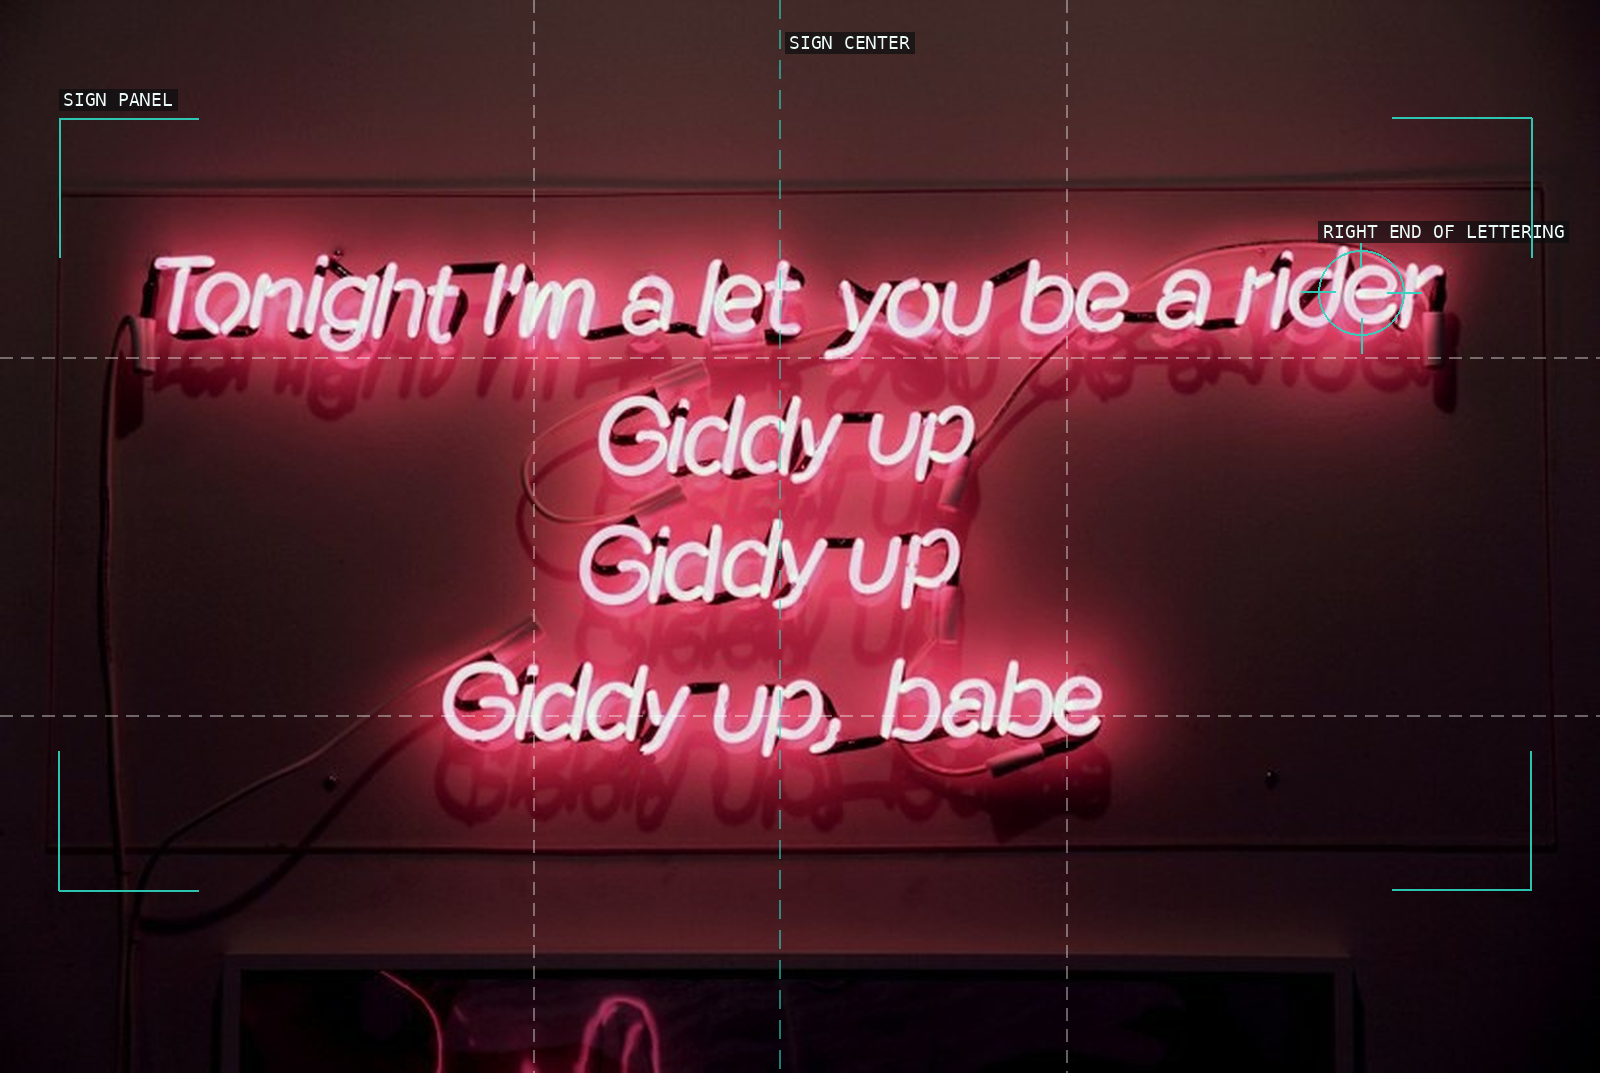
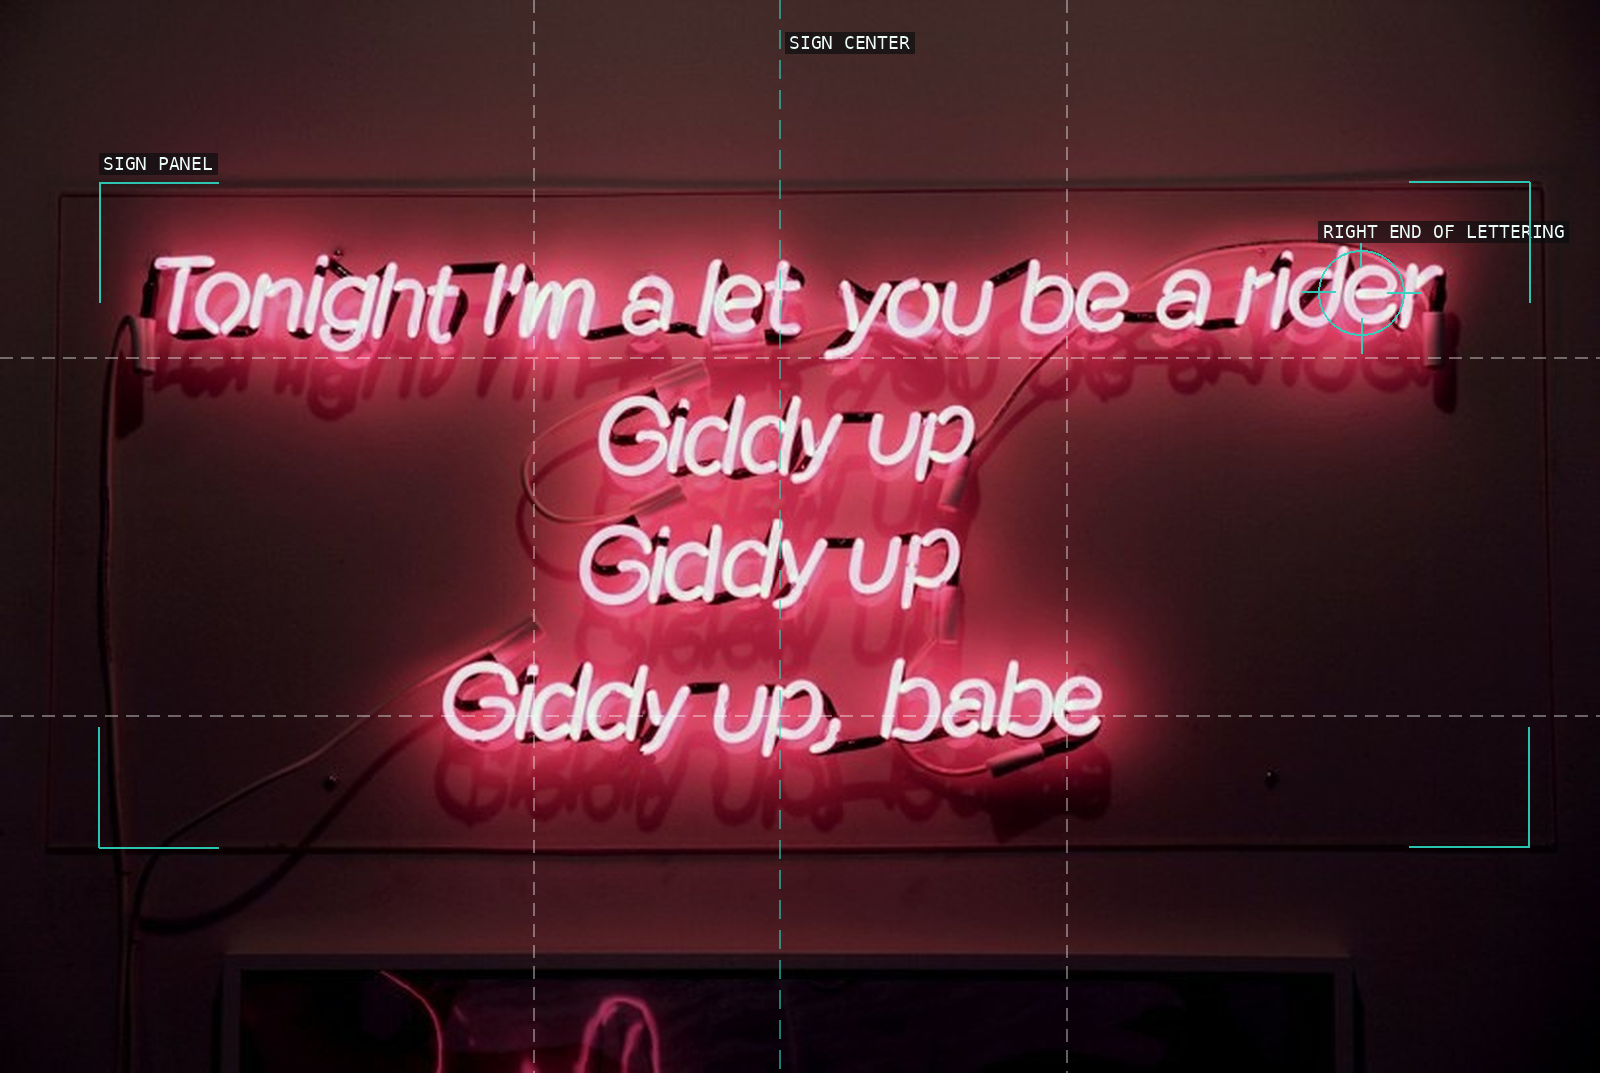
resolve critique: petra-collins

Changed region(s): [[0.0312, 0.0615, 0.1562, 0.1845], [0.9375, 0.7689, 0.9688, 0.7996]]

diff --git a/content/petra-collins/proofs/index.html b/content/petra-collins/proofs/index.html
@@ -7,29 +7,68 @@
 <style>
   :root { color-scheme: dark; }
   body { background:#0a0e0f; color:#e6edf0; font-family:"JetBrains Mono",ui-monospace,monospace; margin:0; padding:2rem; }
-  h1 { font-size:1rem; font-weight:700; } p { color:#7d919b; font-size:.8rem; }
+  h1 { font-size:1rem; font-weight:700; letter-spacing:.02em; }
+  h1 .c { color:#55707b; }
+  p.sub { color:#7d919b; font-size:.8rem; margin-top:-.3rem; }
   .grid { display:grid; grid-template-columns:repeat(auto-fill,minmax(320px,1fr)); gap:1.25rem; margin-top:1.5rem; }
   figure { margin:0; border:1px solid #1e2a30; border-radius:.5rem; background:#10171a; padding:.6rem; }
-  img { width:100%; height:auto; display:block; border-radius:.25rem; } figcaption { margin-top:.5rem; font-size:.72rem; color:#7d919b; }
-  .id { color:#2dd4bf; }
+  figure img { width:100%; height:auto; display:block; border-radius:.25rem; background:#000; }
+  figcaption { margin-top:.5rem; font-size:.72rem; color:#7d919b; line-height:1.4; }
+  figcaption .id { color:#2dd4bf; }
 </style>
 </head>
 <body>
-<h1>/* petra-collins - proofs */</h1>
-<p>12 plates. Deterministic overlays rendered by the composition-analysis skill.</p>
+<h1><span class="c">/* </span>petra-collins - proofs<span class="c"> */</span></h1>
+<p class="sub">12 plates. Deterministic overlays rendered by the composition-analysis skill.</p>
 <div class="grid">
-<figure><img src="01-selfie-pdf-2.png" alt="Selfie screen within room overlay"><figcaption><span class="id">01</span> A hand relays attention to a small lit screen.</figcaption></figure>
-<figure><img src="02-selfie-pdf-8.png" alt="Selfie group overlay"><figcaption><span class="id">02</span> Close faces and hands form an inward social knot.</figcaption></figure>
-<figure><img src="03-selfie-10.png" alt="Selfie phone frame overlay"><figcaption><span class="id">03</span> A black phone rectangle interrupts a bright wall.</figcaption></figure>
-<figure><img src="04-selfie-9.png" alt="Selfie cropped-figure overlay"><figcaption><span class="id">04</span> Cropped figure and hair contour hold a pale tiled field in tension.</figcaption></figure>
-<figure><img src="05-selfie-pdf-3.png" alt="Selfie mirror overlay"><figcaption><span class="id">05</span> Mirror, hands, and device make looking recursive.</figcaption></figure>
-<figure><img src="06-selfie-41.png" alt="Selfie tiled room overlay"><figcaption><span class="id">06</span> Warm tiles enclose nested reflective surfaces.</figcaption></figure>
-<figure><img src="07-selfie-pdf-9.png" alt="Selfie reclining figure overlay"><figcaption><span class="id">07</span> Raised hands lead into a softly cropped body.</figcaption></figure>
-<figure><img src="08-selfie-pdf-13.png" alt="Selfie arm relay overlay"><figcaption><span class="id">08</span> Two devices are joined by an arm across the room.</figcaption></figure>
-<figure><img src="09-selfie-pdf-14.png" alt="Selfie mirror center overlay"><figcaption><span class="id">09</span> A mirror centers phone, room, and reflected figure.</figcaption></figure>
-<figure><img src="10-neon-works-p10102271.png" alt="Neon speech bubble overlay"><figcaption><span class="id">10</span> A rounded neon border concentrates language.</figcaption></figure>
-<figure><img src="11-neon-works-img-0817.png" alt="Neon centered panel overlay"><figcaption><span class="id">11</span> Magenta lettering is held in a rectangular sign panel.</figcaption></figure>
-<figure><img src="12-neon-works-img-0818.png" alt="Neon text field overlay"><figcaption><span class="id">12</span> A lyric block makes the wall a shallow stage.</figcaption></figure>
+<figure>
+  <img src="01-selfie-pdf-2.png" alt="01-selfie-pdf-2" loading="lazy">
+  <figcaption><span class="id">01-selfie-pdf-2</span><br>A hand carries the small lit screen through a large field of brown shadow.</figcaption>
+</figure>
+<figure>
+  <img src="02-selfie-pdf-8.png" alt="02-selfie-pdf-8" loading="lazy">
+  <figcaption><span class="id">02-selfie-pdf-8</span><br>Faces, hands, and a small phone form a tight, inward-looking social knot.</figcaption>
+</figure>
+<figure>
+  <img src="03-selfie-10.png" alt="03-selfie-10" loading="lazy">
+  <figcaption><span class="id">03-selfie-10</span><br>The bright wall makes the phone&#x27;s black rectangle a compact second picture.</figcaption>
+</figure>
+<figure>
+  <img src="04-selfie-9.png" alt="04-selfie-9" loading="lazy">
+  <figcaption><span class="id">04-selfie-9</span><br>A cropped face and the narrow mirror edge hold a large pale bathroom field in tension.</figcaption>
+</figure>
+<figure>
+  <img src="05-selfie-pdf-3.png" alt="05-selfie-pdf-3" loading="lazy">
+  <figcaption><span class="id">05-selfie-pdf-3</span><br>The mirror&#x27;s visible edges double arms and device, making self-portraiture a layered act of looking.</figcaption>
+</figure>
+<figure>
+  <img src="06-selfie-41.png" alt="06-selfie-41" loading="lazy">
+  <figcaption><span class="id">06-selfie-41</span><br>Warm tiled surfaces turn a mirror selfie into a shallow set of nested rectangles.</figcaption>
+</figure>
+<figure>
+  <img src="07-selfie-pdf-9.png" alt="07-selfie-pdf-9" loading="lazy">
+  <figcaption><span class="id">07-selfie-pdf-9</span><br>A low camera angle lets raised hands lead into a softly cropped reclining body.</figcaption>
+</figure>
+<figure>
+  <img src="08-selfie-pdf-13.png" alt="08-selfie-pdf-13" loading="lazy">
+  <figcaption><span class="id">08-selfie-pdf-13</span><br>Two devices and the arm between them make the room&#x27;s intimacy visibly mediated.</figcaption>
+</figure>
+<figure>
+  <img src="09-selfie-pdf-14.png" alt="09-selfie-pdf-14" loading="lazy">
+  <figcaption><span class="id">09-selfie-pdf-14</span><br>A central mirror turns a bathroom scene into a three-way exchange of faces, room, and phone.</figcaption>
+</figure>
+<figure>
+  <img src="10-neon-works-p10102271.png" alt="10-neon-works-p10102271" loading="lazy">
+  <figcaption><span class="id">10-neon-works-p10102271</span><br>The rounded neon border concentrates language inside a deep black surround.</figcaption>
+</figure>
+<figure>
+  <img src="11-neon-works-img-0817.png" alt="11-neon-works-img-0817" loading="lazy">
+  <figcaption><span class="id">11-neon-works-img-0817</span><br>Magenta lettering is held inside a centered rectangular sign panel.</figcaption>
+</figure>
+<figure>
+  <img src="12-neon-works-img-0818.png" alt="12-neon-works-img-0818" loading="lazy">
+  <figcaption><span class="id">12-neon-works-img-0818</span><br>A long lyric block fills the bordered sign panel with saturated writing.</figcaption>
+</figure>
 </div>
 </body>
 </html>

diff --git a/content/petra-collins/research.md b/content/petra-collins/research.md
@@ -8,7 +8,7 @@ The two bodies of work share a staged, intimate vocabulary but make its mediatio
 
 ## Technique and limits
 
-The portfolio pages and supplied source records establish series, date ranges, and public presentation, but they do not document camera body, lens, focal length, aperture, shutter speed, ISO, film stock, sensor format, lighting setup, or print process for these individual photographs. This chapter does not infer them. The ingested files are web display JPEGs, 800 × 537px or 820 × 550px. Several retain metadata reading “Applied Graphics Technologies / Digital Link,” which describes a file-processing chain rather than a camera; three also carry 2014–15 timestamps, but these cannot establish capture dates or settings.
+The portfolio pages and supplied source records establish series, date ranges, and public presentation, but they do not document camera body, lens, focal length, aperture, shutter speed, ISO, film stock, sensor format, lighting setup, or print process for these individual photographs. This chapter does not infer them. The ingested files are web display JPEGs, 800 × 537px or 820 × 550px. Several retain metadata reading “Applied Graphics Technologies / Digital Link,” which describes a file-processing chain rather than a camera; four (02, 07, 08, and 09) also carry 2014–15 timestamps, but these cannot establish capture dates or settings.
 
 ## Measured evidence
 

diff --git a/content/petra-collins/critique.md b/content/petra-collins/critique.md
@@ -1,4 +1,4 @@
-verdict: revise
+verdict: resolved
 
 ## Critique round — 2026-08-02
 
@@ -85,3 +85,12 @@ The affected overlays (02, 05, 06, and 07) were freshly analysed, rendered, visu
 ### Advisory (non-blocking)
 
 No additional advisory findings. All twelve proofs were visually reviewed; every current overlay re-scores 100/100 against its matching analyzer JSON, and the source pages and direct public image routes remain traceable.
+
+## Builder resolution — 2026-08-02
+
+Re-verified the full critique history. The prior resolutions remain intact, including the corrected *Selfie* series-date language and the removals of unsupported overlay claims.
+
+1. Corrected the research metadata count to four timestamp-bearing supplied files (02, 07, 08, and 09), while retaining the explicit caution that processing timestamps establish neither capture dates nor camera settings.
+2. Redrew 12's `SIGN PANEL` on the photographed bordered panel at `x: .062`, `y: .170`, `w: .894`, `h: .620`; it now encloses the complete lyric block and follows the visible top and bottom border rather than extending into the wall. Regenerated the plate proof and contact sheet.
+
+The corrected 12 overlay was rendered afresh, visually checked against the visible panel border, and scores 100/100 against its matching analysis. The proof regenerated from the current spec is byte-identical to the stored proof.
